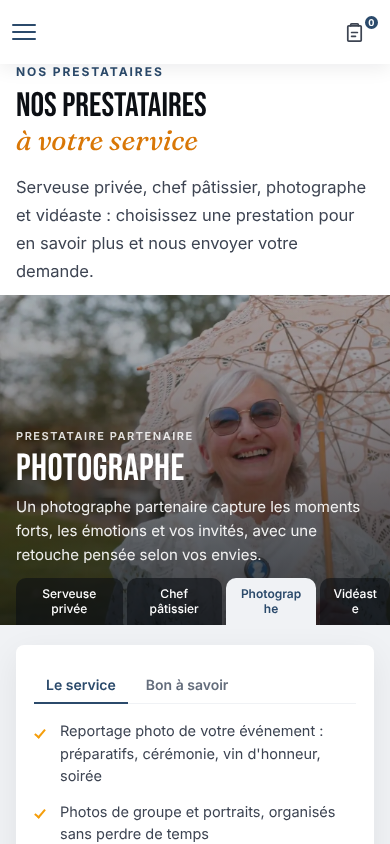
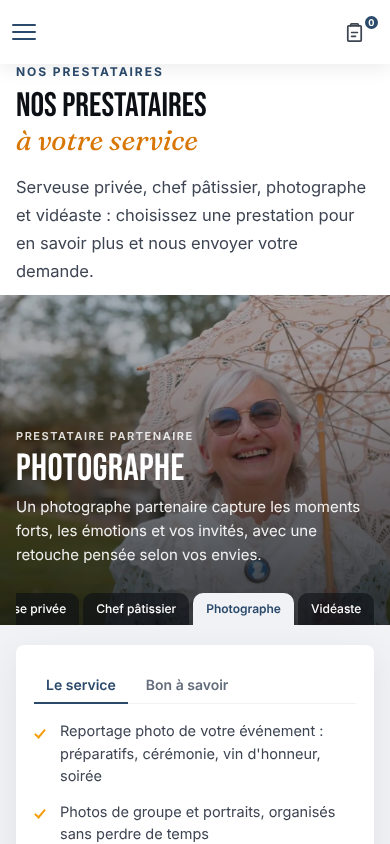
Référencement : nos-prestataires indexable et au plan du site, liens internes vers les pages prestataires, images de partage
Claude-Session: https://claude.ai/code/session_01WQLdmRPaukAjSKqYYAyhYN

Changed region(s): [[0.2462, 0.6777, 0.9846, 0.7393], [0.0308, 0.6777, 0.2462, 0.7393]]

diff --git a/site/organisation-mariage.html b/site/organisation-mariage.html
@@ -830,6 +830,7 @@ textarea.pr-i{resize:vertical;min-height:96px}
 <section class="ev-sec ev-prod"><div class="ev-in"><div class="pr-sec pr-sec-b"><span class="pr-lab">Le matériel pour votre événement</span><h3 class="pr-t">À louer <em class="ac">pour votre projet</em></h3><div class="bests pr-bests" id="prB" data-vcar="prB" data-add data-img-origine data-img-map="p3=photobooth-salle-hd.webp" data-ids="p3,p46,p24,p10,p32,p49,p45,p35,p22,p23,p13,p51,p12"><div class="bests-shell"><button class="bests-arrow bests-arrow-prev" id="prBPrev" aria-label="Produits précédents">‹</button><div class="bests-carousel" id="prBWrap"><div class="bests-track" id="prBTrack"></div></div><button class="bests-arrow bests-arrow-next" id="prBNext" aria-label="Produits suivants">›</button></div><div class="bests-dots" id="prBDots"></div></div></div></div></section>
 <section class="ev-sec ev-presta" id="prestataires"><div class="ev-in"><p class="ev-k">Nos prestataires</p><h2 class="ev-t">NOS PRESTATAIRES <em>À VOTRE SERVICE</em></h2><p class="ev-sub">Serveuse privée, chef pâtissier, photographe et vidéaste : choisissez une prestation pour en savoir plus et nous envoyer votre demande.</p></div></section>
 <header class="pr-hero" id="prHero"><div class="pr-hero-in"><p class="pr-kicker">Prestataire partenaire</p><h2 id="prHT"></h2><p id="prHA"></p><div class="pr-nav" role="tablist" aria-label="Choisir une prestation" id="prNav"></div></div></header>
+<style>.pr-page{display:inline-block;margin:14px 0 0;font-size:13.5px;font-weight:600;color:#14304f;text-decoration:none}.pr-page:hover{text-decoration:underline}</style>
 <section class="pr"><div class="pr-in">
   <article class="pr-card" id="prCard" aria-live="polite"></article>
   <div class="pr-more" id="prMore"></div>
@@ -1007,6 +1008,7 @@ function fiche(sub){
  '<label class="pr-chk"><input type="checkbox" id="prMat"> Je souhaite aussi louer du matériel pour cet événement</label>'+
  '<button class="pr-add" type="submit">Envoyer ma demande</button><p class="pr-n" id="prMsg">Sans engagement. Les prix des prestations sont donnés sur devis, après échange avec vous.</p></form>';
  if(p.id==='videaste'&&window.vespraFilm){var fb=document.createElement('div'),bx=card.querySelector('.pr-box');if(bx){bx.insertBefore(fb,bx.firstChild);vespraFilm(fb,'/videos/film-mariage-lucie.mp4','/videos/film-mariage-lucie.jpg','Mariage de Lucie · film de notre vidéaste partenaire');}}
+ (function(){var PG={serveuse:'serveuse-privee',patissier:'chef-patissier',photographe:'photographe',videaste:'videaste'};var bx=card.querySelector('.pr-box');if(!window.__PR_SEUL&&PG[p.id]&&bx){var a=document.createElement('a');a.className='pr-page';a.href='/'+PG[p.id]+'.html';a.textContent='Voir la page '+p.nom+' →';bx.appendChild(a)}})();
 // activer calendrier/listes sur les nouveaux champs
  var d=card.querySelector('[data-date-fr]'); if(d)d.dfrPret=false;
  if(window.__dfrInit)window.__dfrInit(); else { var s=document.createElement('script'); s.src='/date-fr.js'; document.body.appendChild(s); }

diff --git a/site/organisation-evenements-entreprises.html b/site/organisation-evenements-entreprises.html
@@ -834,6 +834,7 @@ textarea.pr-i{resize:vertical;min-height:96px}
 <section class="ev-sec ev-prod"><div class="ev-in"><div class="pr-sec pr-sec-b"><span class="pr-lab">Le matériel pour votre événement</span><h3 class="pr-t">À louer <em class="ac">pour votre projet</em></h3><div class="bests pr-bests" id="prB" data-vcar="prB" data-add data-img-origine data-img-map="p3=photobooth-salle-hd.webp" data-ids="p3,p46,p9,p12,p13,p42,p20,p47,p40,p41,p35,p32,p49"><div class="bests-shell"><button class="bests-arrow bests-arrow-prev" id="prBPrev" aria-label="Produits précédents">‹</button><div class="bests-carousel" id="prBWrap"><div class="bests-track" id="prBTrack"></div></div><button class="bests-arrow bests-arrow-next" id="prBNext" aria-label="Produits suivants">›</button></div><div class="bests-dots" id="prBDots"></div></div></div></div></section>
 <section class="ev-sec ev-presta" id="prestataires"><div class="ev-in"><p class="ev-k">Nos prestataires</p><h2 class="ev-t">NOS PRESTATAIRES <em>À VOTRE SERVICE</em></h2><p class="ev-sub">Serveuse privée, chef pâtissier, photographe et vidéaste : choisissez une prestation pour en savoir plus et nous envoyer votre demande.</p></div></section>
 <header class="pr-hero" id="prHero"><div class="pr-hero-in"><p class="pr-kicker">Prestataire partenaire</p><h2 id="prHT"></h2><p id="prHA"></p><div class="pr-nav" role="tablist" aria-label="Choisir une prestation" id="prNav"></div></div></header>
+<style>.pr-page{display:inline-block;margin:14px 0 0;font-size:13.5px;font-weight:600;color:#14304f;text-decoration:none}.pr-page:hover{text-decoration:underline}</style>
 <section class="pr"><div class="pr-in">
   <article class="pr-card" id="prCard" aria-live="polite"></article>
   <div class="pr-more" id="prMore"></div>
@@ -1011,6 +1012,7 @@ function fiche(sub){
  '<label class="pr-chk"><input type="checkbox" id="prMat"> Je souhaite aussi louer du matériel pour cet événement</label>'+
  '<button class="pr-add" type="submit">Envoyer ma demande</button><p class="pr-n" id="prMsg">Sans engagement. Les prix des prestations sont donnés sur devis, après échange avec vous.</p></form>';
  if(p.id==='videaste'&&window.vespraFilm){var fb=document.createElement('div'),bx=card.querySelector('.pr-box');if(bx){bx.insertBefore(fb,bx.firstChild);vespraFilm(fb,'/videos/film-mariage-lucie.mp4','/videos/film-mariage-lucie.jpg','Mariage de Lucie · film de notre vidéaste partenaire');}}
+ (function(){var PG={serveuse:'serveuse-privee',patissier:'chef-patissier',photographe:'photographe',videaste:'videaste'};var bx=card.querySelector('.pr-box');if(!window.__PR_SEUL&&PG[p.id]&&bx){var a=document.createElement('a');a.className='pr-page';a.href='/'+PG[p.id]+'.html';a.textContent='Voir la page '+p.nom+' →';bx.appendChild(a)}})();
 // activer calendrier/listes sur les nouveaux champs
  var d=card.querySelector('[data-date-fr]'); if(d)d.dfrPret=false;
  if(window.__dfrInit)window.__dfrInit(); else { var s=document.createElement('script'); s.src='/date-fr.js'; document.body.appendChild(s); }

diff --git a/site/organisation-anniversaire-entreprise.html b/site/organisation-anniversaire-entreprise.html
@@ -830,6 +830,7 @@ textarea.pr-i{resize:vertical;min-height:96px}
 <section class="ev-sec ev-prod"><div class="ev-in"><div class="pr-sec pr-sec-b"><span class="pr-lab">Le matériel pour votre événement</span><h3 class="pr-t">À louer <em class="ac">pour votre projet</em></h3><div class="bests pr-bests" id="prB" data-vcar="prB" data-add data-img-origine data-img-map="p3=photobooth-salle-hd.webp" data-ids="p3,p46,p13,p42,p20,p47,p32,p35,p49,p45,p12,p23"><div class="bests-shell"><button class="bests-arrow bests-arrow-prev" id="prBPrev" aria-label="Produits précédents">‹</button><div class="bests-carousel" id="prBWrap"><div class="bests-track" id="prBTrack"></div></div><button class="bests-arrow bests-arrow-next" id="prBNext" aria-label="Produits suivants">›</button></div><div class="bests-dots" id="prBDots"></div></div></div></div></section>
 <section class="ev-sec ev-presta" id="prestataires"><div class="ev-in"><p class="ev-k">Nos prestataires</p><h2 class="ev-t">NOS PRESTATAIRES <em>À VOTRE SERVICE</em></h2><p class="ev-sub">Serveuse privée, chef pâtissier, photographe et vidéaste : choisissez une prestation pour en savoir plus et nous envoyer votre demande.</p></div></section>
 <header class="pr-hero" id="prHero"><div class="pr-hero-in"><p class="pr-kicker">Prestataire partenaire</p><h2 id="prHT"></h2><p id="prHA"></p><div class="pr-nav" role="tablist" aria-label="Choisir une prestation" id="prNav"></div></div></header>
+<style>.pr-page{display:inline-block;margin:14px 0 0;font-size:13.5px;font-weight:600;color:#14304f;text-decoration:none}.pr-page:hover{text-decoration:underline}</style>
 <section class="pr"><div class="pr-in">
   <article class="pr-card" id="prCard" aria-live="polite"></article>
   <div class="pr-more" id="prMore"></div>
@@ -1007,6 +1008,7 @@ function fiche(sub){
  '<label class="pr-chk"><input type="checkbox" id="prMat"> Je souhaite aussi louer du matériel pour cet événement</label>'+
  '<button class="pr-add" type="submit">Envoyer ma demande</button><p class="pr-n" id="prMsg">Sans engagement. Les prix des prestations sont donnés sur devis, après échange avec vous.</p></form>';
  if(p.id==='videaste'&&window.vespraFilm){var fb=document.createElement('div'),bx=card.querySelector('.pr-box');if(bx){bx.insertBefore(fb,bx.firstChild);vespraFilm(fb,'/videos/film-mariage-lucie.mp4','/videos/film-mariage-lucie.jpg','Mariage de Lucie · film de notre vidéaste partenaire');}}
+ (function(){var PG={serveuse:'serveuse-privee',patissier:'chef-patissier',photographe:'photographe',videaste:'videaste'};var bx=card.querySelector('.pr-box');if(!window.__PR_SEUL&&PG[p.id]&&bx){var a=document.createElement('a');a.className='pr-page';a.href='/'+PG[p.id]+'.html';a.textContent='Voir la page '+p.nom+' →';bx.appendChild(a)}})();
 // activer calendrier/listes sur les nouveaux champs
  var d=card.querySelector('[data-date-fr]'); if(d)d.dfrPret=false;
  if(window.__dfrInit)window.__dfrInit(); else { var s=document.createElement('script'); s.src='/date-fr.js'; document.body.appendChild(s); }

diff --git a/site/organisation-seminaire.html b/site/organisation-seminaire.html
@@ -830,6 +830,7 @@ textarea.pr-i{resize:vertical;min-height:96px}
 <section class="ev-sec ev-prod"><div class="ev-in"><div class="pr-sec pr-sec-b"><span class="pr-lab">Le matériel pour votre événement</span><h3 class="pr-t">À louer <em class="ac">pour votre projet</em></h3><div class="bests pr-bests" id="prB" data-vcar="prB" data-add data-img-origine data-img-map="p3=photobooth-salle-hd.webp" data-ids="p20,p47,p13,p42,p5,p45,p49,p3,p46,p32,p12"><div class="bests-shell"><button class="bests-arrow bests-arrow-prev" id="prBPrev" aria-label="Produits précédents">‹</button><div class="bests-carousel" id="prBWrap"><div class="bests-track" id="prBTrack"></div></div><button class="bests-arrow bests-arrow-next" id="prBNext" aria-label="Produits suivants">›</button></div><div class="bests-dots" id="prBDots"></div></div></div></div></section>
 <section class="ev-sec ev-presta" id="prestataires"><div class="ev-in"><p class="ev-k">Nos prestataires</p><h2 class="ev-t">NOS PRESTATAIRES <em>À VOTRE SERVICE</em></h2><p class="ev-sub">Serveuse privée, chef pâtissier, photographe et vidéaste : choisissez une prestation pour en savoir plus et nous envoyer votre demande.</p></div></section>
 <header class="pr-hero" id="prHero"><div class="pr-hero-in"><p class="pr-kicker">Prestataire partenaire</p><h2 id="prHT"></h2><p id="prHA"></p><div class="pr-nav" role="tablist" aria-label="Choisir une prestation" id="prNav"></div></div></header>
+<style>.pr-page{display:inline-block;margin:14px 0 0;font-size:13.5px;font-weight:600;color:#14304f;text-decoration:none}.pr-page:hover{text-decoration:underline}</style>
 <section class="pr"><div class="pr-in">
   <article class="pr-card" id="prCard" aria-live="polite"></article>
   <div class="pr-more" id="prMore"></div>
@@ -1007,6 +1008,7 @@ function fiche(sub){
  '<label class="pr-chk"><input type="checkbox" id="prMat"> Je souhaite aussi louer du matériel pour cet événement</label>'+
  '<button class="pr-add" type="submit">Envoyer ma demande</button><p class="pr-n" id="prMsg">Sans engagement. Les prix des prestations sont donnés sur devis, après échange avec vous.</p></form>';
  if(p.id==='videaste'&&window.vespraFilm){var fb=document.createElement('div'),bx=card.querySelector('.pr-box');if(bx){bx.insertBefore(fb,bx.firstChild);vespraFilm(fb,'/videos/film-mariage-lucie.mp4','/videos/film-mariage-lucie.jpg','Mariage de Lucie · film de notre vidéaste partenaire');}}
+ (function(){var PG={serveuse:'serveuse-privee',patissier:'chef-patissier',photographe:'photographe',videaste:'videaste'};var bx=card.querySelector('.pr-box');if(!window.__PR_SEUL&&PG[p.id]&&bx){var a=document.createElement('a');a.className='pr-page';a.href='/'+PG[p.id]+'.html';a.textContent='Voir la page '+p.nom+' →';bx.appendChild(a)}})();
 // activer calendrier/listes sur les nouveaux champs
  var d=card.querySelector('[data-date-fr]'); if(d)d.dfrPret=false;
  if(window.__dfrInit)window.__dfrInit(); else { var s=document.createElement('script'); s.src='/date-fr.js'; document.body.appendChild(s); }

diff --git a/site/organisation-soiree-entreprise.html b/site/organisation-soiree-entreprise.html
@@ -830,6 +830,7 @@ textarea.pr-i{resize:vertical;min-height:96px}
 <section class="ev-sec ev-prod"><div class="ev-in"><div class="pr-sec pr-sec-b"><span class="pr-lab">Le matériel pour votre événement</span><h3 class="pr-t">À louer <em class="ac">pour votre projet</em></h3><div class="bests pr-bests" id="prB" data-vcar="prB" data-add data-img-origine data-img-map="p3=photobooth-salle-hd.webp" data-ids="p3,p46,p9,p12,p13,p42,p40,p41,p35,p32,p23"><div class="bests-shell"><button class="bests-arrow bests-arrow-prev" id="prBPrev" aria-label="Produits précédents">‹</button><div class="bests-carousel" id="prBWrap"><div class="bests-track" id="prBTrack"></div></div><button class="bests-arrow bests-arrow-next" id="prBNext" aria-label="Produits suivants">›</button></div><div class="bests-dots" id="prBDots"></div></div></div></div></section>
 <section class="ev-sec ev-presta" id="prestataires"><div class="ev-in"><p class="ev-k">Nos prestataires</p><h2 class="ev-t">NOS PRESTATAIRES <em>À VOTRE SERVICE</em></h2><p class="ev-sub">Serveuse privée, chef pâtissier, photographe et vidéaste : choisissez une prestation pour en savoir plus et nous envoyer votre demande.</p></div></section>
 <header class="pr-hero" id="prHero"><div class="pr-hero-in"><p class="pr-kicker">Prestataire partenaire</p><h2 id="prHT"></h2><p id="prHA"></p><div class="pr-nav" role="tablist" aria-label="Choisir une prestation" id="prNav"></div></div></header>
+<style>.pr-page{display:inline-block;margin:14px 0 0;font-size:13.5px;font-weight:600;color:#14304f;text-decoration:none}.pr-page:hover{text-decoration:underline}</style>
 <section class="pr"><div class="pr-in">
   <article class="pr-card" id="prCard" aria-live="polite"></article>
   <div class="pr-more" id="prMore"></div>
@@ -1007,6 +1008,7 @@ function fiche(sub){
  '<label class="pr-chk"><input type="checkbox" id="prMat"> Je souhaite aussi louer du matériel pour cet événement</label>'+
  '<button class="pr-add" type="submit">Envoyer ma demande</button><p class="pr-n" id="prMsg">Sans engagement. Les prix des prestations sont donnés sur devis, après échange avec vous.</p></form>';
  if(p.id==='videaste'&&window.vespraFilm){var fb=document.createElement('div'),bx=card.querySelector('.pr-box');if(bx){bx.insertBefore(fb,bx.firstChild);vespraFilm(fb,'/videos/film-mariage-lucie.mp4','/videos/film-mariage-lucie.jpg','Mariage de Lucie · film de notre vidéaste partenaire');}}
+ (function(){var PG={serveuse:'serveuse-privee',patissier:'chef-patissier',photographe:'photographe',videaste:'videaste'};var bx=card.querySelector('.pr-box');if(!window.__PR_SEUL&&PG[p.id]&&bx){var a=document.createElement('a');a.className='pr-page';a.href='/'+PG[p.id]+'.html';a.textContent='Voir la page '+p.nom+' →';bx.appendChild(a)}})();
 // activer calendrier/listes sur les nouveaux champs
  var d=card.querySelector('[data-date-fr]'); if(d)d.dfrPret=false;
  if(window.__dfrInit)window.__dfrInit(); else { var s=document.createElement('script'); s.src='/date-fr.js'; document.body.appendChild(s); }

diff --git a/site/organisation-anniversaire.html b/site/organisation-anniversaire.html
@@ -829,6 +829,7 @@ textarea.pr-i{resize:vertical;min-height:96px}
 <section class="ev-sec ev-prod"><div class="ev-in"><div class="pr-sec pr-sec-b"><span class="pr-lab">Le matériel pour votre événement</span><h3 class="pr-t">À louer <em class="ac">pour votre projet</em></h3><div class="bests pr-bests" id="prB" data-vcar="prB" data-add data-img-origine data-img-map="p3=photobooth-salle-hd.webp" data-ids="p9,p12,p3,p11,p23,p34,p32,p35,p56"><div class="bests-shell"><button class="bests-arrow bests-arrow-prev" id="prBPrev" aria-label="Produits précédents">‹</button><div class="bests-carousel" id="prBWrap"><div class="bests-track" id="prBTrack"></div></div><button class="bests-arrow bests-arrow-next" id="prBNext" aria-label="Produits suivants">›</button></div><div class="bests-dots" id="prBDots"></div></div></div></div></section>
 <section class="ev-sec ev-presta" id="prestataires"><div class="ev-in"><p class="ev-k">Nos prestataires</p><h2 class="ev-t">NOS PRESTATAIRES <em>À VOTRE SERVICE</em></h2><p class="ev-sub">Serveuse privée, chef pâtissier, photographe et vidéaste : choisissez une prestation pour en savoir plus et nous envoyer votre demande.</p></div></section>
 <header class="pr-hero" id="prHero"><div class="pr-hero-in"><p class="pr-kicker">Prestataire partenaire</p><h2 id="prHT"></h2><p id="prHA"></p><div class="pr-nav" role="tablist" aria-label="Choisir une prestation" id="prNav"></div></div></header>
+<style>.pr-page{display:inline-block;margin:14px 0 0;font-size:13.5px;font-weight:600;color:#14304f;text-decoration:none}.pr-page:hover{text-decoration:underline}</style>
 <section class="pr"><div class="pr-in">
   <article class="pr-card" id="prCard" aria-live="polite"></article>
   <div class="pr-more" id="prMore"></div>
@@ -1006,6 +1007,7 @@ function fiche(sub){
  '<label class="pr-chk"><input type="checkbox" id="prMat"> Je souhaite aussi louer du matériel pour cet événement</label>'+
  '<button class="pr-add" type="submit">Envoyer ma demande</button><p class="pr-n" id="prMsg">Sans engagement. Les prix des prestations sont donnés sur devis, après échange avec vous.</p></form>';
  if(p.id==='videaste'&&window.vespraFilm){var fb=document.createElement('div'),bx=card.querySelector('.pr-box');if(bx){bx.insertBefore(fb,bx.firstChild);vespraFilm(fb,'/videos/film-mariage-lucie.mp4','/videos/film-mariage-lucie.jpg','Mariage de Lucie · film de notre vidéaste partenaire');}}
+ (function(){var PG={serveuse:'serveuse-privee',patissier:'chef-patissier',photographe:'photographe',videaste:'videaste'};var bx=card.querySelector('.pr-box');if(!window.__PR_SEUL&&PG[p.id]&&bx){var a=document.createElement('a');a.className='pr-page';a.href='/'+PG[p.id]+'.html';a.textContent='Voir la page '+p.nom+' →';bx.appendChild(a)}})();
 // activer calendrier/listes sur les nouveaux champs
  var d=card.querySelector('[data-date-fr]'); if(d)d.dfrPret=false;
  if(window.__dfrInit)window.__dfrInit(); else { var s=document.createElement('script'); s.src='/date-fr.js'; document.body.appendChild(s); }

diff --git a/site/evenements.html b/site/evenements.html
@@ -838,6 +838,7 @@ textarea.pr-i{resize:vertical;min-height:96px}
 </div></section>
 <section class="ev-sec ev-presta" id="prestataires"><div class="ev-in"><p class="ev-k">Nos prestataires</p><h2 class="ev-t">NOS PRESTATAIRES <em>À VOTRE SERVICE</em></h2><p class="ev-sub">Serveuse privée, chef pâtissier, photographe et vidéaste : choisissez une prestation pour en savoir plus et nous envoyer votre demande.</p></div></section>
 <header class="pr-hero" id="prHero"><div class="pr-hero-in"><p class="pr-kicker">Prestataire partenaire</p><h2 id="prHT"></h2><p id="prHA"></p><div class="pr-nav" role="tablist" aria-label="Choisir une prestation" id="prNav"></div></div></header>
+<style>.pr-page{display:inline-block;margin:14px 0 0;font-size:13.5px;font-weight:600;color:#14304f;text-decoration:none}.pr-page:hover{text-decoration:underline}</style>
 <section class="pr"><div class="pr-in">
   <article class="pr-card" id="prCard" aria-live="polite"></article>
   <div class="pr-more" id="prMore"></div>
@@ -1031,6 +1032,7 @@ function fiche(sub){
  '<label class="pr-chk"><input type="checkbox" id="prMat"> Je souhaite aussi louer du matériel pour cet événement</label>'+
  '<button class="pr-add" type="submit">Envoyer ma demande</button><p class="pr-n" id="prMsg">Sans engagement. Les prix des prestations sont donnés sur devis, après échange avec vous.</p></form>';
  if(p.id==='videaste'&&window.vespraFilm){var fb=document.createElement('div'),bx=card.querySelector('.pr-box');if(bx){bx.insertBefore(fb,bx.firstChild);vespraFilm(fb,'/videos/film-mariage-lucie.mp4','/videos/film-mariage-lucie.jpg','Mariage de Lucie · film de notre vidéaste partenaire');}}
+ (function(){var PG={serveuse:'serveuse-privee',patissier:'chef-patissier',photographe:'photographe',videaste:'videaste'};var bx=card.querySelector('.pr-box');if(!window.__PR_SEUL&&PG[p.id]&&bx){var a=document.createElement('a');a.className='pr-page';a.href='/'+PG[p.id]+'.html';a.textContent='Voir la page '+p.nom+' →';bx.appendChild(a)}})();
 // activer calendrier/listes sur les nouveaux champs
  var d=card.querySelector('[data-date-fr]'); if(d)d.dfrPret=false;
  if(window.__dfrInit)window.__dfrInit(); else { var s=document.createElement('script'); s.src='/date-fr.js'; document.body.appendChild(s); }

diff --git a/site/nos-prestataires.html b/site/nos-prestataires.html
@@ -18,7 +18,7 @@ try{window.__VESPRA_SITE=fetch('/api/site',{headers:{accept:'application/json'},
 <meta name="description" content="Bars et caves, serveurs, loueurs de vaisselle, traiteurs et photographes que nous recommandons : les métiers que nous ne faisons pas nous-mêmes.">
 <!-- Pages en construction : on attend d'avoir de vraies listes avant de les
      proposer à Google. Retirer cette ligne quand elles seront remplies. -->
-<meta name="robots" content="noindex,follow">
+<meta name="robots" content="index,follow">
 <meta property="og:type" content="website">
 <meta property="og:title" content="Nos prestataires recommandés pour vos événements | Vespra Event">
 <meta property="og:description" content="Bars et caves, serveurs, loueurs de vaisselle, traiteurs et photographes que nous recommandons : les métiers que nous ne faisons pas nous-mêmes.">

diff --git a/site/chef-patissier.html b/site/chef-patissier.html
@@ -21,7 +21,7 @@ try{window.__VESPRA_SITE=fetch('/api/site',{headers:{accept:'application/json'},
 <link rel="canonical" href="https://www.vespraevent.fr/chef-patissier">
 
 <meta property="og:type" content="website">
-<meta property="og:image" content="https://www.vespraevent.fr/vous-hesitez-fete.webp">
+<meta property="og:image" content="https://www.vespraevent.fr/prestation-patissier.webp">
 <meta property="og:locale" content="fr_FR">
 <meta property="og:site_name" content="Vespra Event">
 <meta name="twitter:card" content="summary_large_image">

diff --git a/site/serveuse-privee.html b/site/serveuse-privee.html
@@ -21,7 +21,7 @@ try{window.__VESPRA_SITE=fetch('/api/site',{headers:{accept:'application/json'},
 <link rel="canonical" href="https://www.vespraevent.fr/serveuse-privee">
 
 <meta property="og:type" content="website">
-<meta property="og:image" content="https://www.vespraevent.fr/vous-hesitez-fete.webp">
+<meta property="og:image" content="https://www.vespraevent.fr/prestation-serveuse.webp">
 <meta property="og:locale" content="fr_FR">
 <meta property="og:site_name" content="Vespra Event">
 <meta name="twitter:card" content="summary_large_image">

diff --git a/site/photographe.html b/site/photographe.html
@@ -21,7 +21,7 @@ try{window.__VESPRA_SITE=fetch('/api/site',{headers:{accept:'application/json'},
 <link rel="canonical" href="https://www.vespraevent.fr/photographe">
 
 <meta property="og:type" content="website">
-<meta property="og:image" content="https://www.vespraevent.fr/vous-hesitez-fete.webp">
+<meta property="og:image" content="https://www.vespraevent.fr/mariage-film-parasol.webp">
 <meta property="og:locale" content="fr_FR">
 <meta property="og:site_name" content="Vespra Event">
 <meta name="twitter:card" content="summary_large_image">

diff --git a/site/videaste.html b/site/videaste.html
@@ -21,7 +21,7 @@ try{window.__VESPRA_SITE=fetch('/api/site',{headers:{accept:'application/json'},
 <link rel="canonical" href="https://www.vespraevent.fr/videaste">
 
 <meta property="og:type" content="website">
-<meta property="og:image" content="https://www.vespraevent.fr/vous-hesitez-fete.webp">
+<meta property="og:image" content="https://www.vespraevent.fr/mariage-film-ceremonie.webp">
 <meta property="og:locale" content="fr_FR">
 <meta property="og:site_name" content="Vespra Event">
 <meta name="twitter:card" content="summary_large_image">
